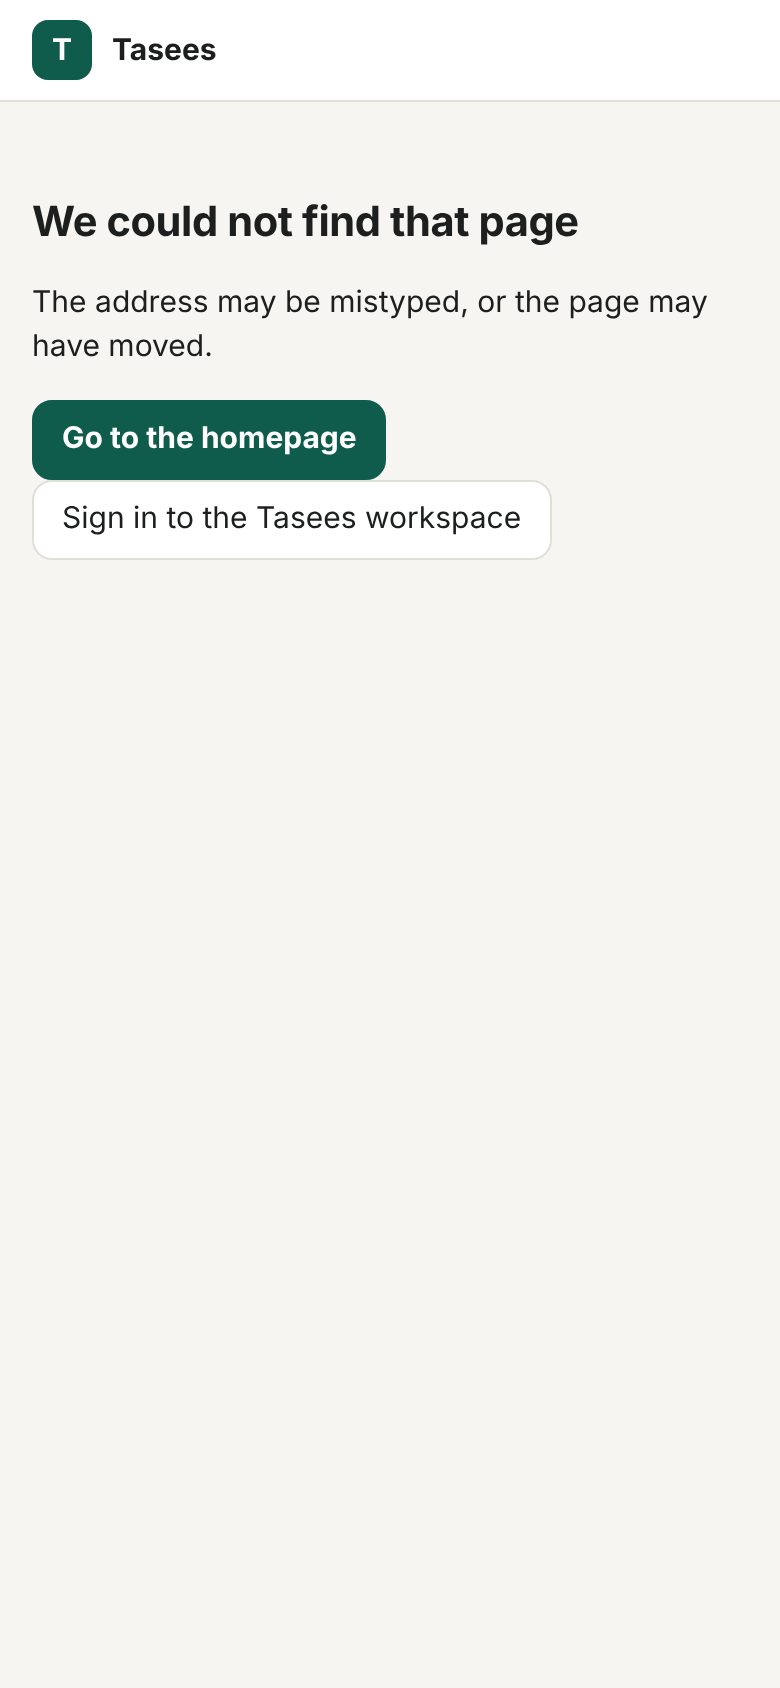
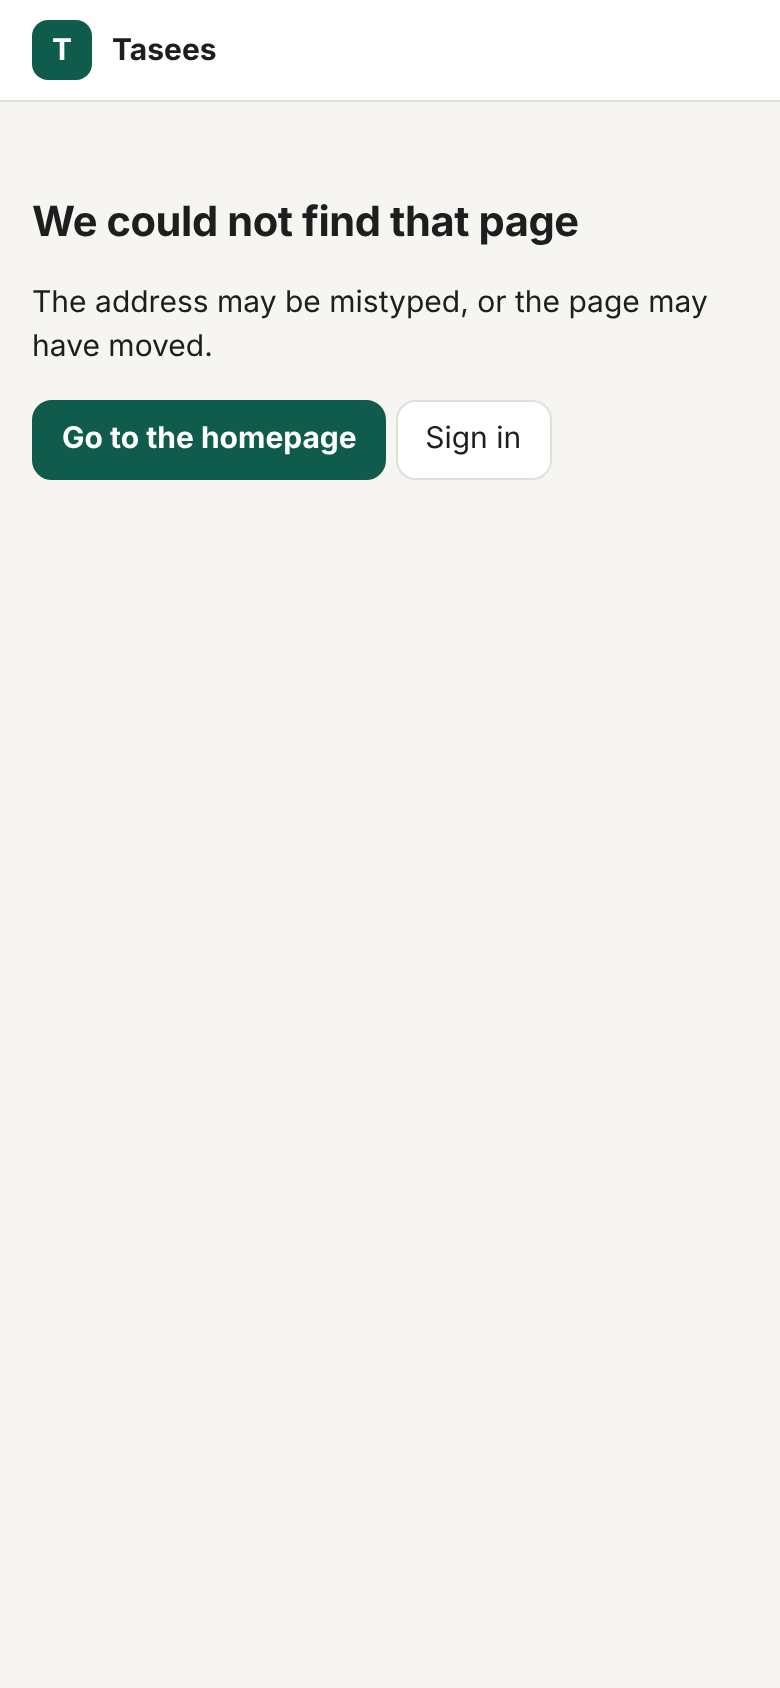
E14 review fixes: a forwarded old link never runs the homepage; routing tightened
The independent review found that a forwarded /#/... link still ran the homepage's script (a funnel visit counted, a
public request made, the homepage shown to a partner for a moment). forward.js now loads selector.js only when it is
not forwarding, and hides the page while it forwards; a smoke check proves no public request is made.

Also: the 404 page is served only as a 404 (the guard compares the normalised path); the public pages are served at
the root only; the traversal test aims at a file that exists, in six spellings; the staff Scoping page links to /;
the 404 page says "Sign in"; the rollback text and DEPLOY's WEB_DIR row are corrected; D96 notes the funnel's landing
path change.

Tests: core 147, API 365 (1 skipped) on PGlite; typecheck clean; smoke 319 checks.

Claude-Session: https://claude.ai/code/session_01QzEGiu7q2Qy5LpHAKh2X9v

Changed region(s): [[0.3385, 0.2464, 0.6769, 0.3389], [0.2154, 0.2773, 0.3077, 0.3389], [0.0923, 0.2773, 0.1538, 0.3389]]

diff --git a/apps/api/test/front-door.test.ts b/apps/api/test/front-door.test.ts
@@ -32,6 +32,9 @@ describe("the front door and the workspace's address (E14)", () => {
     expect(home.body).toContain('id="quick-start"');
     expect(home.body).toContain('<link rel="canonical" href="https://tasees.test/" />');
     expect(home.body).toContain('<script src="forward.js"></script>');
+    // The homepage's script is loaded by forward.js, so a forwarded old link never runs it.
+    expect(home.body).not.toContain('src="selector.js"');
+    expect((await get(env, "/forward.js")).body).toContain('s.src = "selector.js"');
     // Without APP_URL the canonical link stays relative.
     expect((await get(bare, "/")).body).toContain('<link rel="canonical" href="/" />');
     const intake = await get(env, "/intake.html");
@@ -67,11 +70,19 @@ describe("the front door and the workspace's address (E14)", () => {
     expect(missing.status).toBe(404);
     expect(missing.body).toContain("We could not find that page");
     expect(missing.body).not.toContain("<title>Tasees workspace</title>");
-    expect((await get(env, "/404.html")).status).toBe(404);
-    for (const url of ["/../package.json", "/%2e%2e/%2e%2e/package.json", "/app/../../package.json", "/app/%2e%2e/%2e%2e/apps/api/package.json"]) {
+    // The 404 page is served only as a 404, however the path is written.
+    for (const url of ["/404.html", "/./404.html", "/js/../404.html", "/app/404.html"]) {
       const r = await get(env, url);
-      expect(r.body, url).not.toContain('"name": "@tasees');
+      expect([r.status, r.body.includes("We could not find that page") || r.body.includes("<title>Tasees workspace</title>")], url).toEqual([url.startsWith("/app/") ? 200 : 404, true]);
     }
+    // apps/api/package.json exists two folders above the web folder: no spelling of the path reaches it.
+    for (const url of ["/%2e%2e/%2e%2e/api/package.json", "/app/%2e%2e/%2e%2e/%2e%2e/api/package.json", "/..%2f..%2fapi%2fpackage.json", "/%252e%252e/%252e%252e/api/package.json", "/..%5c..%5capi%5cpackage.json", "/app/..%2f..%2f..%2fapi%2fpackage.json"]) {
+      const r = await get(env, url);
+      expect(r.body, url).not.toContain('"@tasees/api"');
+      expect(r.status === 404 || r.body.includes("<title>Tasees workspace</title>"), url).toBe(true);
+    }
+    // The public pages are served at the root only: under /app/ the path is the workspace's.
+    for (const url of ["/app/selector.html", "/app/intake.html"]) expect((await get(env, url)).body, url).toContain("<title>Tasees workspace</title>");
     // Under /app/ an unknown path is the workspace (its routes are in the fragment), as before.
     expect((await get(env, "/app/anything")).body).toContain("<title>Tasees workspace</title>");
     // The API keeps its JSON 404.

diff --git a/apps/web/public/js/ops.js b/apps/web/public/js/ops.js
@@ -502,7 +502,7 @@ export async function renderScoping() {
       <select name="confidence">${["verified", "rule_of_thumb", "UNCERTAIN"].map((v) => `<option value="${v}" ${c === v ? "selected" : ""}>${CONF_LABEL[v]}</option>`).join("")}</select>
       <input name="verifiedBy" placeholder="Verified by (name, qualification)" style="width:200px" /><input name="sourceUrl" type="url" placeholder="https://source" style="width:180px" /><button class="sm" type="submit">Save</button></form>` : "";
   $app.innerHTML = `<h1>Scoping rules and places</h1>
-  <p class="muted">The advice shown to founders is built only from these. Each starts UNCERTAIN; a qualified person verifies it with a source, the founder records that here, and from then on the advice built on it says "verified rule" with the date. Evidence past its re-check date counts one level lower until it is checked again. The public selector (<a href="/selector.html" target="_blank" rel="noopener">selector.html</a>) shows only rules and place figures approved for public display, one version at a time; everything else it shows as "to be verified". ${o.pendingReviews ? `${o.pendingReviews} request(s) have advice waiting for review on the Pipeline.` : ""}</p>
+  <p class="muted">The advice shown to founders is built only from these. Each starts UNCERTAIN; a qualified person verifies it with a source, the founder records that here, and from then on the advice built on it says "verified rule" with the date. Evidence past its re-check date counts one level lower until it is checked again. The public selector (<a href="/" target="_blank" rel="noopener">the homepage</a>) shows only rules and place figures approved for public display, one version at a time; everything else it shows as "to be verified". ${o.pendingReviews ? `${o.pendingReviews} request(s) have advice waiting for review on the Pipeline.` : ""}</p>
   <div class="kpis">
     <div class="kpi"><b>${pub.rules.filter((r) => r.display.approved).length} / ${pub.rules.length}</b><span>rules the public selector may show</span></div>
     <div class="kpi"><b>${pub.places.filter((p) => p.display.approved).length} / ${pub.places.length}</b><span>places with public figures</span></div>

diff --git a/apps/web/public/forward.js b/apps/web/public/forward.js
@@ -1,4 +1,16 @@
 // E14 (D96): the workspace moved from / to /app/. A link sent before that (an email's /#/engagement/…, a payment link's
-// /#/pay/…, a bookmark) opens the homepage at /, so it is forwarded to the same place in the workspace. The homepage's
-// own anchors (#quick, #start, #review) never start with "#/".
-if (location.hash.startsWith("#/")) location.replace("/app/" + location.hash);
+// /#/pay/…, a bookmark) opens the homepage at /, so it is forwarded to the same place in the workspace. While it
+// forwards, the homepage stays hidden and its script never loads: no visit is counted in the funnel, no request is
+// made, and a partner never sees the homepage. The homepage's own anchors (#quick, #start, #review) never start
+// with "#/". Otherwise this loads the homepage's script once the page is parsed, as a deferred module would run.
+if (location.hash.startsWith("#/")) {
+  document.documentElement.hidden = true;
+  location.replace("/app/" + location.hash);
+} else {
+  document.addEventListener("DOMContentLoaded", () => {
+    const s = document.createElement("script");
+    s.type = "module";
+    s.src = "selector.js";
+    document.body.append(s);
+  });
+}

diff --git a/apps/api/src/server.ts b/apps/api/src/server.ts
@@ -264,9 +264,11 @@ function registerStatic(app: FastifyInstance, dir: string, appUrl?: string) {
     if (url === "index.html" || url === "app") return reply.redirect("/app/" + query(req.url), 301);
     if (url === "") return send(reply, "selector.html");
     if (url === "app/") return send(reply, "index.html");
-    // The workspace's own files, relative to /app/ (styles, scripts); the same files are also at the root.
-    const file = url.startsWith("app/") ? url.slice(4) : url;
-    if (file !== "404.html" && (await isFile(file))) return send(reply, normalize(file));
+    // The workspace's own files, relative to /app/ (styles, scripts); the same files are also at the root. The public
+    // pages are served at the root only, and the 404 page only as a 404.
+    const inApp = url.startsWith("app/");
+    const file = normalize(inApp ? url.slice(4) : url);
+    if (file !== "404.html" && !(inApp && PUBLIC_PAGES.has(file)) && (await isFile(file))) return send(reply, file);
     if (url.startsWith("app/")) return send(reply, "index.html");
     return send(reply, "404.html", 404);
   });

diff --git a/apps/web/public/selector.html b/apps/web/public/selector.html
@@ -347,6 +347,6 @@
     <p class="small muted">Tasees is a service of MKW Advisors. Partner firms deliver the work; MKW Advisors manages scope, price, quality and payment. Nothing on this page is advice or a statutory conclusion; nothing is filed automatically.</p>
     <p class="small muted" id="measure">We count how this page is used, in aggregate: which questions are reached and whether a result is viewed or saved. No cookie, no contact detail, nothing tied to you unless you ask for a review.</p>
   </main>
-  <script type="module" src="selector.js"></script>
+  <!-- selector.js is loaded by forward.js (E14), unless the page is forwarding an old workspace link. -->
 </body>
 </html>

diff --git a/apps/web/public/404.html b/apps/web/public/404.html
@@ -13,7 +13,7 @@
   <main id="app" style="max-width:640px;margin:48px auto;padding:0 16px">
     <h1>We could not find that page</h1>
     <p>The address may be mistyped, or the page may have moved.</p>
-    <p><a class="btn primary" href="/">Go to the homepage</a> <a class="btn" href="/app/">Sign in to the Tasees workspace</a></p>
+    <p><a class="btn primary" href="/">Go to the homepage</a> <a class="btn" href="/app/">Sign in</a></p>
   </main>
 </body>
 </html>

diff --git a/outcomes/E14-front-door.md b/outcomes/E14-front-door.md
@@ -78,6 +78,23 @@ Evidence recorded on 3 Nov 2026 (`docs/evidence/E14/`):
   - `117-mobile-not-found.png` (390 px);
   - `95-public-home.png` (the homepage, now at `/`).
 
+## Independent review
+
+Nothing blocking: path traversal, open redirects and header injection were probed against the running demo, and none
+got through. Fixed:
+- **Forwarding:** a forwarded old link ran the homepage's script, which counted a funnel visit and showed a partner
+  the homepage for a moment. The homepage's script is now loaded by `forward.js` only when it is not forwarding, and
+  the page stays hidden while it forwards. A smoke check proves no public request is made.
+- **Rollback text:** the rollback instructions were wrong.
+- **Traversal test:** it now aims at a file that exists.
+- **404 page:** it could be served with status 200 through `/./404.html`.
+- **Public pages under `/app/`:** they were also served there.
+- **Stale address:** the staff Scoping page still linked to `/selector.html`.
+- **404 wording:** the page said "Sign in to the Tasees workspace" and now says "Sign in".
+- **DEPLOY's `WEB_DIR` row.**
+
+Recorded: the funnel's landing path for the homepage changes from `/selector.html` to `/` (D96).
+
 ## Dependencies
 
 E11 (homepage), E13. No new library.
@@ -95,5 +112,7 @@ E11 (homepage), E13. No new library.
 
 ## Rollback
 
-Revert the merge. The emails sent in the meantime point at `/app/#/…`, which after a rollback opens the workspace
-through the old fallback (an unknown path served the workspace before E14).
+Revert the merge, and keep one rewrite in its place: `/app/` and `/app/<file>` served as `/` and `/<file>`. The
+emails and payment links sent in the meantime point at `/app/#/…`. Without the rewrite, the old server would answer
+`/app/app.js` and `/app/styles.css` with the workspace's HTML, and the browser would refuse them, so those links would
+open a blank workspace (independent review of E14). No migration, no data.

diff --git a/docs/DEPLOY.md b/docs/DEPLOY.md
@@ -29,7 +29,7 @@
 | `EMAIL_FROM_CLIENT` | `tasees@mkwadvisors.com` | Sender address for messages to clients (shown as "Tasees, by MKW Advisors"). Must be verified in SES. |
 | `EMAIL_FROM_PARTNER` | `partners@mkwadvisors.com` | Sender address for messages to partners and staff (shown as "MKW Advisors"). |
 | `APP_URL` | `http://localhost:PORT` | The public web address, without a path: the homepage is at `/` and the workspace at `/app/` (E14). Used in links inside messages (`APP_URL/app/#/…`), the public pages' canonical links, `robots.txt` and `/sitemap.xml` (no sitemap until it is set). |
-| `WEB_DIR` | `apps/web/public` | Static web app served at `/`. |
+| `WEB_DIR` | `apps/web/public` | The web pages: the public homepage at `/`, the workspace at `/app/`, the intake at `/intake.html` (E14). |
 | `IN_PROCESS_JOBS` | on | `0` turns off the 15-minute in-process timers; then run `pnpm jobs` from cron. |
 | `LOG` | on | `0` turns off request logging. |
 | `ALERT_EMAIL` | unset | Where platform alerts go (jobs late, a step failed, messages stuck, audit chain broken). Needs `EMAIL=ses` to actually send (the server warns at start otherwise). Unset, alerts are logged and shown on Setup → System and in the ops queue only. |

diff --git a/docs/DECISIONS.md b/docs/DECISIONS.md
@@ -1087,7 +1087,11 @@ owner on 3 Nov 2026: "start E14".)
 - **Old addresses keep working.** `/selector.html` and `/index.html` redirect permanently, keeping the query (a saved
   result's `?code=`). A link sent before the move (`/#/engagement/…` in an email, `/#/pay/…`) opens the homepage,
   whose first script (`forward.js`, before anything draws) sends it to the same place under `/app/`.
-- Email and payment links now point at `APP_URL/app/#/…` directly.
+- Email and payment links now point at `APP_URL/app/#/…` directly. Payment links stored before E14 keep the old form
+  and are forwarded. While forwarding, the homepage stays hidden and does not load its script, so no funnel visit is
+  counted and a partner never sees it.
+- The E7C funnel's landing path for the homepage is `/` from E14 on (it was `/selector.html`): a report that compares
+  landing pages across the change should read both as the homepage.
 - Any other address is a 404 page with the way home, never the workspace. Under `/app/` an unknown path still opens
   the workspace, whose routes are in the fragment.
 - **Search.** The public pages carry a canonical link, made absolute from `APP_URL` when it is set. `robots.txt`
